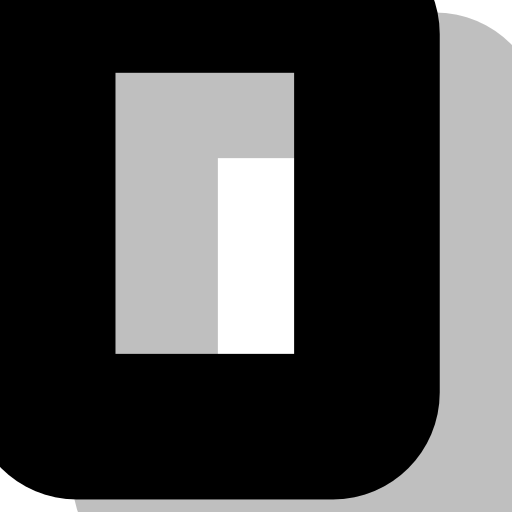
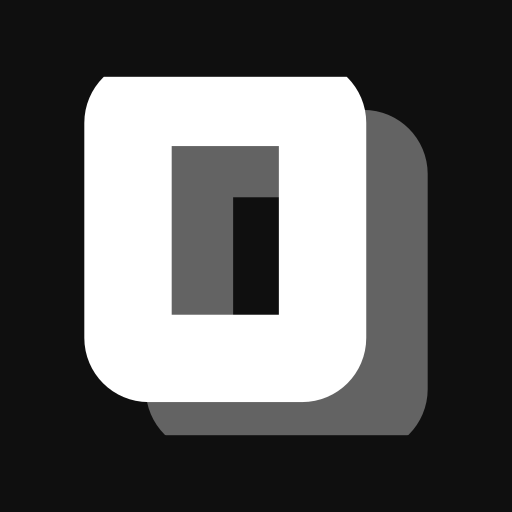
수정: PWA 아이콘 및 매니페스트 개선
- 미들웨어 matcher에서 manifest.webmanifest 제외
- 아이콘 viewBox 여백 추가로 stroke 잘림 수정
- 라이트 배경 아이콘으로 교체, 배경색 흰색으로 변경

diff --git a/src/app/manifest.ts b/src/app/manifest.ts
@@ -7,16 +7,16 @@ export default function manifest(): MetadataRoute.Manifest {
     description: "소중한 순간을 달력에 기록하세요",
     start_url: "/",
     display: "standalone",
-    background_color: "#0f0f0f",
-    theme_color: "#0f0f0f",
+    background_color: "#ffffff",
+    theme_color: "#ffffff",
     icons: [
       {
-        src: "/icon-192.png",
+        src: "/icon-192-light.png",
         sizes: "192x192",
         type: "image/png",
       },
       {
-        src: "/icon-512.png",
+        src: "/icon-512-light.png",
         sizes: "512x512",
         type: "image/png",
         purpose: "maskable",

diff --git a/src/proxy.ts b/src/proxy.ts
@@ -7,6 +7,6 @@ export async function proxy(request: NextRequest) {
 
 export const config = {
   matcher: [
-    "/((?!_next/static|_next/image|favicon.ico|.*\\.(?:svg|png|jpg|jpeg|gif|webp)$).*)",
+    "/((?!_next/static|_next/image|favicon.ico|manifest.webmanifest|.*\\.(?:svg|png|jpg|jpeg|gif|webp)$).*)",
   ],
 };
